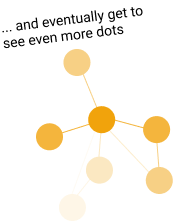
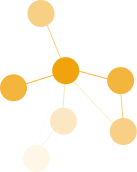
change index.html imgs

Changed region(s): [[0.0, 0.0, 1.0, 0.9012]]

diff --git a/css/style.css b/css/style.css
@@ -183,6 +183,13 @@ nav>ul>li>a:hover {
   margin: 40px 0 0 0;
 }
 
+.textpurpledot, .textapple {
+  transform: rotate(-20deg);
+}
+
+.textpengu, .textnet {
+  transform: rotate(20deg);
+}
 /* Containers & columns
 ====================================*/
 .container {
@@ -191,8 +198,9 @@ nav>ul>li>a:hover {
 
 [class*="col-s"] {
   padding: 25px 20px;
-  float: left;
-  margin: 0 0 0 50px;
+  width: 70%;
+  margin: auto;
+  max-width: 218px;
 }
 
 .row::after {
@@ -203,7 +211,6 @@ nav>ul>li>a:hover {
 
 .row {
   margin: auto;
-  display: inline-block;
   width: 100%;
 }
 
@@ -306,6 +313,35 @@ a:active {
 
 .fouroffour {
   max-width: 172px;
+}
+
+[class*="offour"] {
+position: relative;
+display: inline-block;
+}
+
+.oneoffour img {
+  top: -2em;
+left: 6em;
+position: absolute;
+}
+
+.twooffour img {
+  top: -2em;
+left: 6em;
+}
+
+.threeoffour img {
+  top: -1em;
+}
+
+.fouroffour img {
+  top: 5em;
+
+}
+
+.col-s-3 img {
+width: auto;
 }
 
 @keyframes color-change {
@@ -589,8 +625,14 @@ Medium devices (500px and larger)
   .welcome {
     margin: 0.2em 0 2em 0;
   }
-}
 
+  [class*="col-s"] {
+    width: 28%;
+    float: left;
+    display: inline-block;
+    margin: 0px 0 0 4em;
+}
+}
 /* ==============================
 Medium devices (640px and larger)
 ================================= */
@@ -632,11 +674,6 @@ Medium devices (640px and larger)
     float: none;
   }
 
-  [class*="col-"] {
-    display: inline-block;
-    margin: 0 0 0 3.5em;
-  }
-
   .col-md-6 {
     width: 50%;
     float: right;
@@ -665,8 +702,16 @@ Medium devices (640px and larger)
   #money {
     max-width: 640px;
   }
+
+
+.row {
+  margin: auto;
 }
 
+[class*="col-s"] {
+  margin: 0px 0 0 6em;
+}
+}
 /* ==============================
 Large devices (854px or larger), because of the 854px limitation of the original design
 ================================= */
@@ -678,7 +723,8 @@ Large devices (854px or larger), because of the 854px limitation of the original
   }
 
   [class*="col-"] {
-    margin: auto;
+      width: 25%;
+      margin: auto;
   }
 
   .col-lg-6 {

diff --git a/index.html b/index.html
@@ -42,18 +42,21 @@
       <div id="steps">
         <div class="row">
           <div class="col-s-3">
+            <p class="textpurpledot">... find little purple dots like this:</p>
             <picture class="oneoffour">
               <source srcset="img/Home/Mobile/dot-147x70h1.png" media="(max-width:767px)">
               <img src="img/Home/Desktop/dot-147x70.png" alt="purple dot">
             </picture>
           </div>
           <div class="col-s-3">
+            <p class="textpengu">... meet this guy</p>
             <picture class="twooffour">
               <source srcset="img/Home/Mobile/pengu-218x168.png" media="(max-width:767px)">
               <img src="img/Home/Desktop/pengu-213x169.png" alt="penguine">
             </picture>
           </div>
           <div class="col-s-3">
+            <p class="textapple">... have an apple</p>
             <picture class="threeoffour">
               <source srcset="img/Home/Mobile/apple-105x139.png" media="(max-width:767px)">
               <img src="img/Home/Desktop/apple-113x139.png" alt="apple">
@@ -61,6 +64,7 @@
           </div>
           <div class="col-s-3">
             <picture class="fouroffour">
+              <p class="textnet">... and eventually get to see even more dots</p>
               <source srcset="img/Home/Mobile/net-172x221.png" media="(max-width:767px)">
               <img src="img/Home/Desktop/net-172x221.png" alt="net structure">
             </picture>
